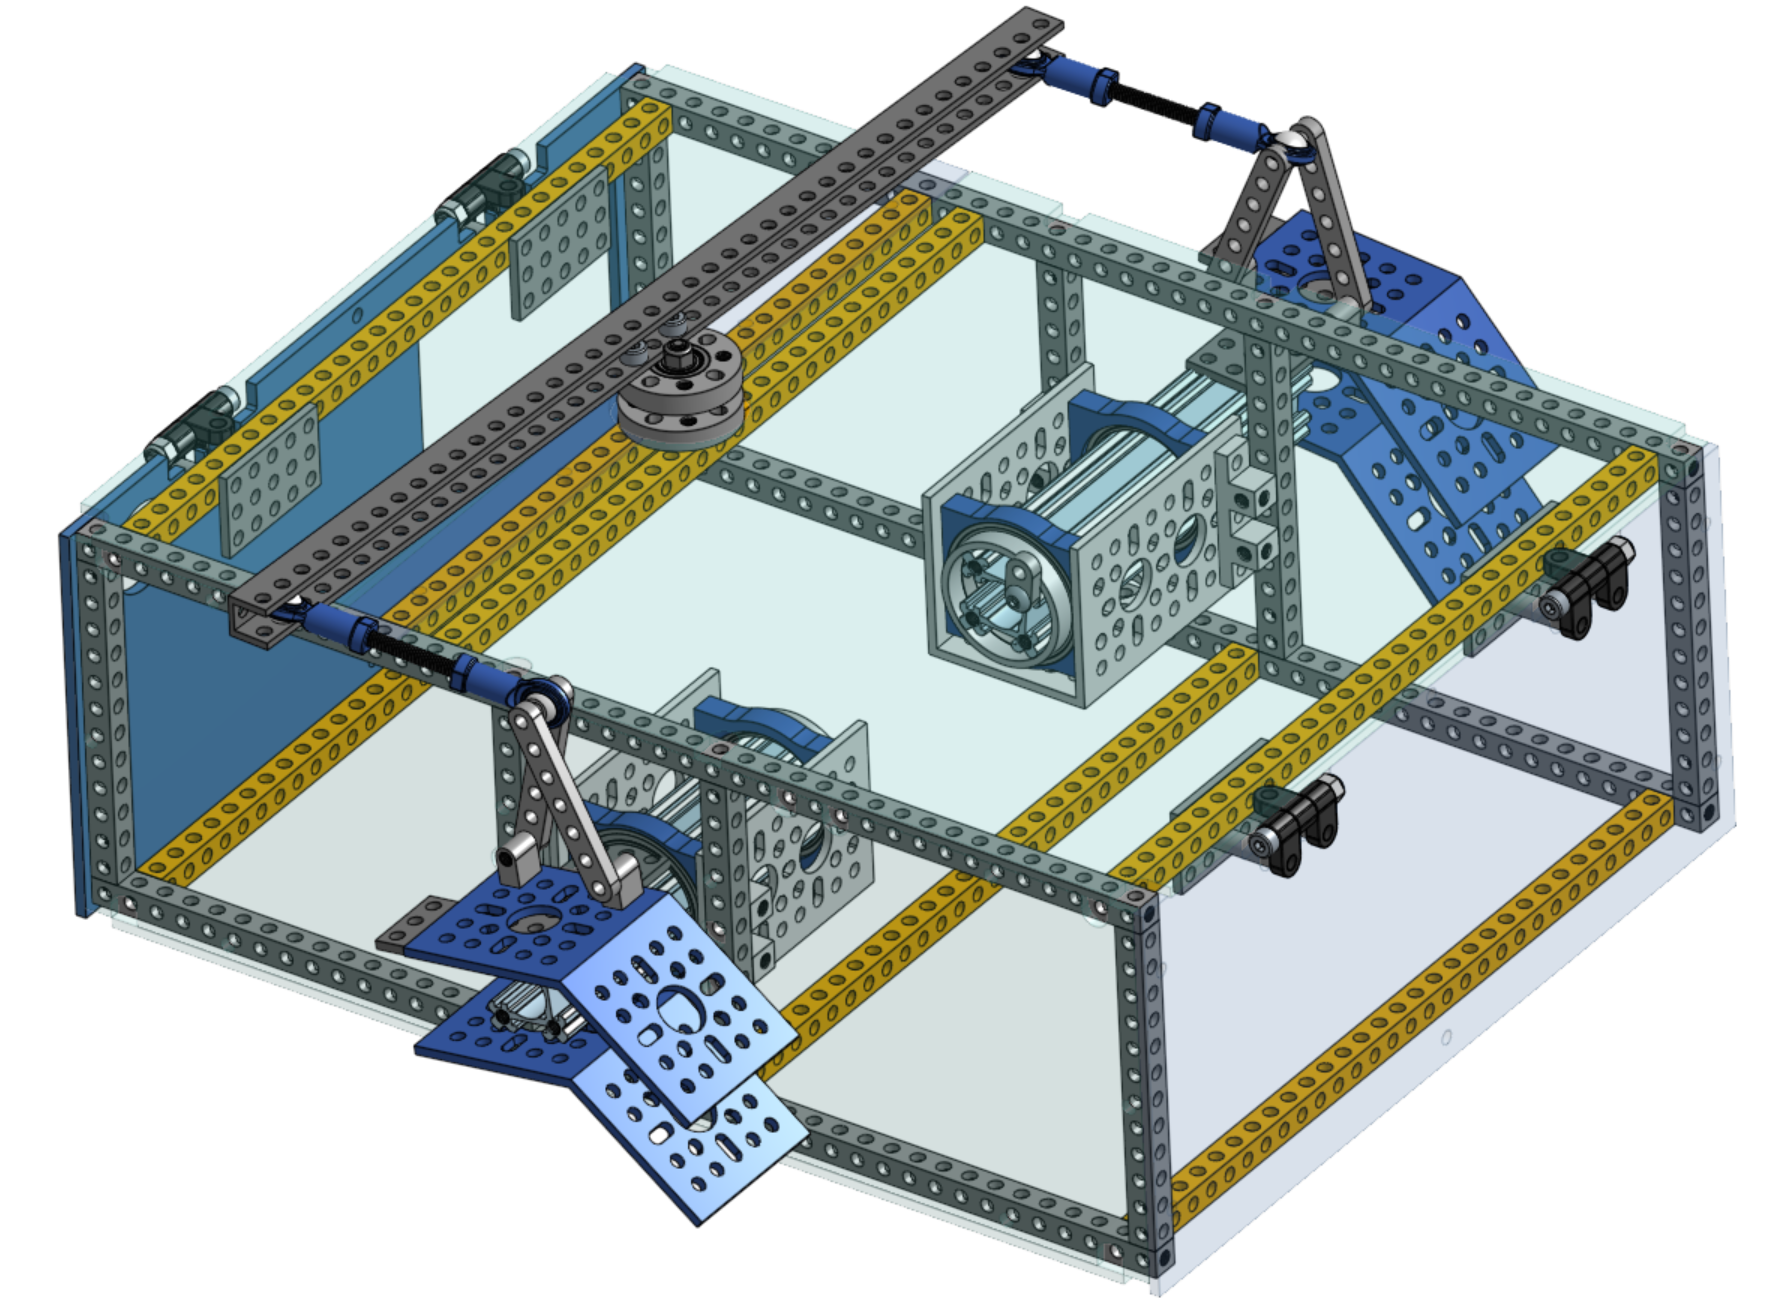
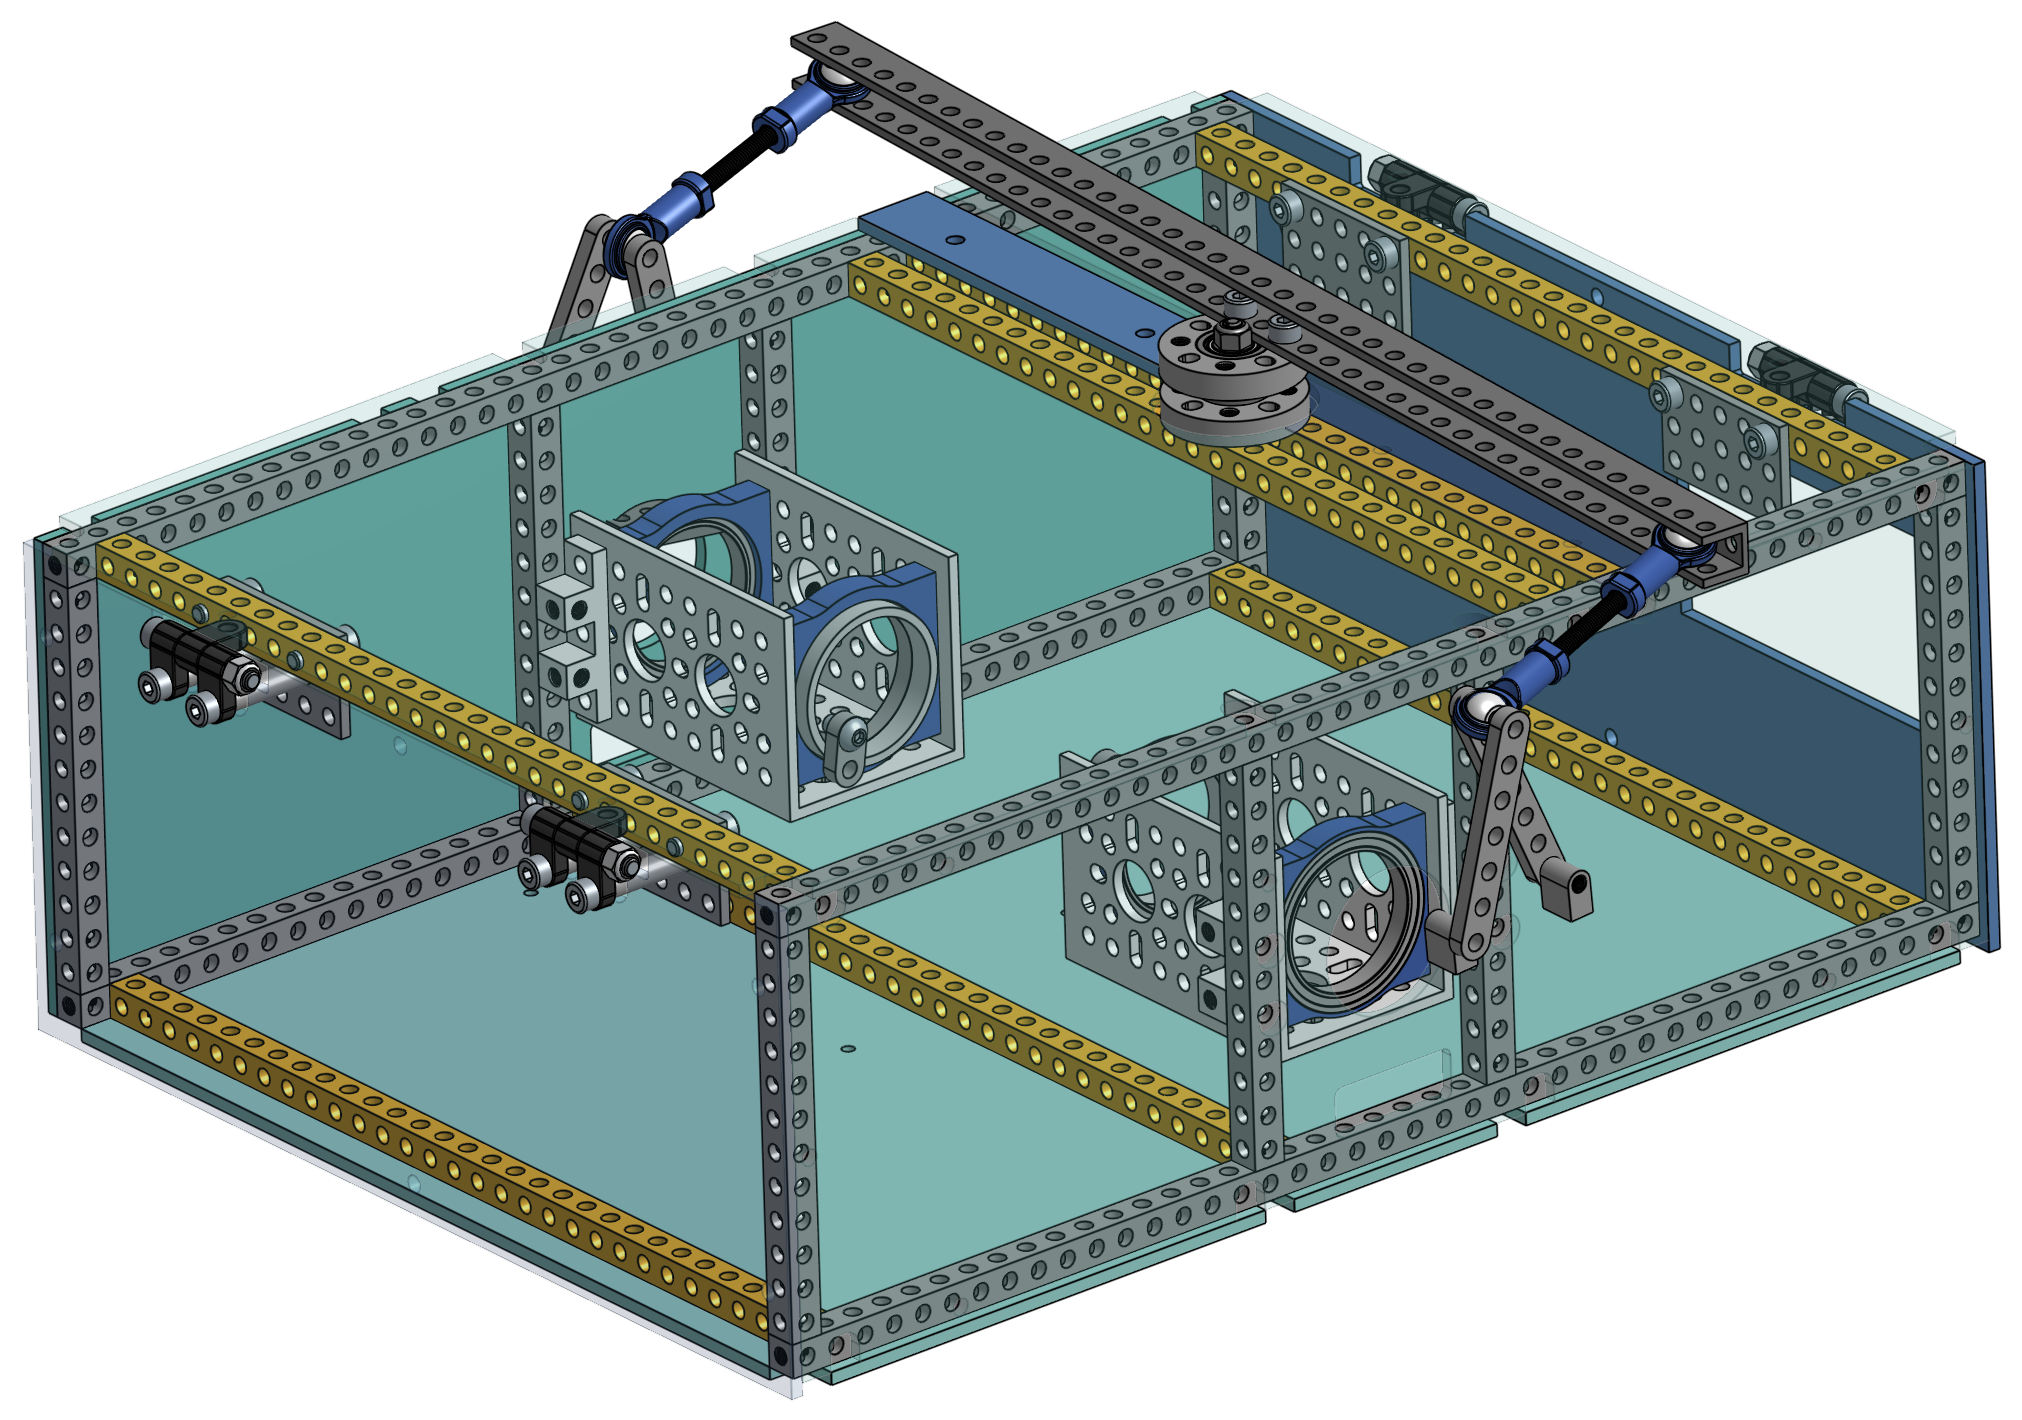
Remove integration folder, docu for mech integration, added images

diff --git a/mechanical/README.md b/mechanical/README.md
@@ -4,7 +4,7 @@ The mechanical subsystem makes up the physical rover without any of its brains o
 
 ![construction](images/rover-construction.png)
 
-The image below shows our suggested progression through the mechanical build process for this project. All individual subassemblies are meant to be completely parallelizable, so each individual subassembly could be built on its own at the same time. Once all the subassemblies are finished, there is one mechanical integration process where each of the subassemblies is integrated together to create the final rover body. Along with the pictures in each folder's README document, open the [OnShape model](https://cad.onshape.com/documents/e4f00b1a3d2edb1a84bbba1c/w/8ab8f394324bcc586236ef5d/e/9191e5ad2a70f387b419bc55?renderMode=0&uiState=645ede92f3a1a9205158b296) so you can see what goes where and spin it around. Note that the OnShape model does not have all screws included to keep the model speedy and light. In general, 
+The image below shows our suggested progression through the mechanical build process for this project. All individual subassemblies are meant to be completely parallelizable, so each individual subassembly could be built on its own at the same time. Once all the subassemblies are finished, there is one mechanical integration process where each of the subassemblies is integrated together to create the final rover body. Along with the pictures in each folder's README document, open the [OnShape model](https://cad.onshape.com/documents/e4f00b1a3d2edb1a84bbba1c/w/8ab8f394324bcc586236ef5d/e/9191e5ad2a70f387b419bc55?renderMode=0&uiState=645ede92f3a1a9205158b296) so you can see what goes where and spin it around. Note that the OnShape model does not have all screws included to keep the model speedy and light.
 
 ## Building the subassemblies
 
@@ -15,6 +15,38 @@ Click on the images to get started on a subassembly!
 
 ## Putting it all together
 
-TODO
+If you haven't already, now is a good time to attach the PCBs to the bottom body plates using the standoffs. The body plates have holes that correspond to where the standoff screws should go.
 
 ![exploded view](images/exploded_mechanical.png)
+Inserting the left rocker-bogie in the body. Note that the 45 angle bracket in blue should already be attached to the rocker-bogie and the wheels should not be attached yet. A 32mm ID round spacer that should be installed below is also not seen on this image.
+
+### Inserting the rocker-bogies in the body
+
+Line up the rocker-bogies with the body such that they can be easily inserted. It helps to put the body on a box such that the holes line up with the rocker-bogie axes. Slide a 32mm internal diameter (ID) spacer around the wires and onto the rocker-bogie axis. Then, carefully insert the wires extending from the rocker-bogie axis through the body plate hole and large diameter bearings and into the body, immediately followed by the axis itself. Repeat for the other side.
+
+![inserting the rocker-bogie axis into the body axis assembly](images/body_axial_clamp.png)
+Inserting the rocker-bogie axis into the body axis clamp. The rocker-bogie is not shown. The cables come out of the axis on the bottom right.
+
+Secure the body axis to the body using another 32mm ID spacer and flat 2-hole bracket + button screw. Repeat for the other side.
+
+### Attaching the differential pivot to the rocker-bogies
+
+Attach the differential legs to the rocker-bogie 45 degree brackets using M4 screws.
+
+> TODO: requires image
+
+### Attaching the middle drive motors
+
+With the help of someone else, carefully flip the rover over so we can attach the motor assemblies.
+
+Connect the two drive motor U-channels to the rocker bogie middle legs using 3 button screws. Then insert the motor into the U-channel and secure the clamp around the motor's gearbox to the U-channel using 4 socket M4 screws. It helps to have another person around here as well to hold the motors so they don't dangle on the cables.
+
+### Attaching the corner assemblies
+
+Using 3 socket M4 screws, attach each corner assembly to the output shaft bracket of the servo. Making sure you connect the right corner assembly to the right side. Flip the rover over again and route the corner cabling through a hole in the bracket holding the servo. The bullet connectors and DuPont connectors from the rocker bogie and corner assemblies should meet here.
+
+> **tip**: Now is a good time to do another connectivity check. Using your multimeter, confirm that each wire connects all the way through.
+
+Finally, insert the PCI-E connectors inside the body and the DuPont connectors for the servo motors into the appropriate receptacles on the PCB. The silk screen lettering on the PCB informs which wire should go where. Once inserted, make sure the rocker-bogies can rotate relatively freely around the body by lifting the wheels up.
+
+If all goes well you're done with the mechanical and electrical stages and you're ready to install the software!

diff --git a/electrical/pcb/README.md b/electrical/pcb/README.md
@@ -8,41 +8,36 @@ This document goes through the process of assembling and testing the custom Prin
 ![brain board top view](images/brain_board_iso.jpg)
 ![brain board bottom view](images/brain_board_bottom.jpg)
 
+TODO: build instructions go here
+
 **work in progress below**
 
-### 6.2 RoboClaw Testing and Verification
+## Testing the PCB and wiring for the drive motos
 
-In this section you will be going one by one and and testing the operation of
-the RoboClaw Motor controllers. You will be doing this by using the GUI provided
-by the manufacturer of the motor controllers. The GUI can be found at
-[this link](https://www.basicmicro.com/downloads), under general downloads, then
-BasicMicro Motion Studio.
+Before we insert the wiring and PCBs into the mechanical assemblies, we'll test and configure the drive motors, wiring, and PCB. This allows us to fix these critical parts if something doesn't look right and allows us to move to running the software as soon as the rover is assembled.
+
+For this you will need:
+
+* wiring you made earlier
+* 6 drive motors
+* completed PCBs
+* a power source: a benchtop power supply or a charged battery
+
+Secure the PCB assembly so it doesn't fall or move while it's on. You can attach it to the bottom body plate already. Avoid contact with any surfaces that can generate high-voltage sparks like carpets as that can destroy the electrical components.
+
+Arrange the drive motors around the PCB and connect them using the wiring. Since we'll be calibrating them, make sure you connect the right motors to the right PCB receptacles. It helps to mark them using a sticky note or marker. The silk screen lettering should help here.
+
+Connect a power source to your board as you did before. Verify that the roboclaws all receive power. A green light should be on on each roboclaw.
+
+### RoboClaw Testing and Verification
+
+In this section you will be going one by one and and testing the operation of the RoboClaw Motor controllers. You will be doing this by using the GUI provided by the manufacturer of the motor controllers. The GUI can be found at [the BasicMicro website](https://www.basicmicro.com/downloads), under general downloads, then BasicMicro Motion Studio.
 
 You'll also need the `USB RoboClaw Windows Driver` from the RoboClaw General
 Downloads section of the page. This should be installed before you run the
 Motion Studio.
 
-To use the GUI, insert a USB to Micro USB cable from your computer to the motor
-controller you are going to be testing.
-
-#### Connect Wires
-
-First, connect the wires in the following manner:
-
-**todo, outdated**
-
-| Signal    | Terminal Block Label | Motor Connector Wire Color |
-| --------- | -------------------- | -------------------------- |
-| Motor (+) | M+                   | Red                        |
-| Motor (-) | M-                   | Black                      |
-| Ground    | GND                  | Green                      |
-| +5V       | +5V                  | Blue                       |
-| Encoder A | ENA                  | Yellow                     |
-| Encoder   | B                    | ENB White                  |
-
-#### Power on
-
-Power on the board. After a minute or so, in the Basic Motion GUI you should see an available device appear. It might require an update to proceed. Install the latest firmware update and then connect to the device.
+To use the GUI, insert a USB to Micro USB cable from your computer to the motor controller you are going to be testing. In the Basic Motion GUI you should see an available device appear. It might require an update to proceed. Install the latest firmware update and then connect to the device.
 
 #### Prepare PWM signal
 
@@ -60,15 +55,6 @@ previous as well. If these are not happening or are backwards, go back and
 check that you are using the correct motor controller, terminal block, etc.
 If all your connections are correct, you may have to test your solder
 contact between the components on the board itself.
-
-#### 6.4.1 Connect wires
-
-Connect the wires to the motor in the following manner
-
-| Signal    | Terminal Block Label | Motor Connector Wire Color |
-| --------- | -------------------- | -------------------------- |
-| Motor (+) | M+                   | Red                        |
-| Motor (-) | M-                   | Black                      |
 
 #### Test PWM signal
 

diff --git a/mechanical/rocker_bogie/README.md b/mechanical/rocker_bogie/README.md
@@ -20,7 +20,7 @@ The Rocker-Bogie is the suspension system that enables the rover to climb aggres
 
 ## Assembly
 
-You will be creating two identical assemblies. Below instructions are for one side. We recommend building one side first rather than trying to build both sides in parallel, that way you'll be able to make the other side faster. Before you start building, familiarize yourself with the details of this assembly, in particular because you'll be building two assemblies that are mirrorred. Specifically, you'll want the open slits on the bogie to be facing the same side:
+You will be creating two almost identical assemblies. Below instructions are for one side. We recommend building one side first rather than trying to build both sides in parallel, that way you'll be able to make the other side faster. Before you start building, familiarize yourself with the details of this assembly, in particular because you'll be building two assemblies that are mirrorred. Specifically, you'll want the open slits on the bogie to be facing the same side:
 
 ![](images/slit_direction_closeup.png)
 
@@ -34,7 +34,7 @@ Assemble the joint following the steps below. Since the clamp in the middle isn'
 
 Wait with the yellow and orange (ball bearing) parts. The bearing should first be inserted into the yellow hub.
 
-TODO: improve images, refer to 3D model. 
+TODO: improve images, refer to 3D model.
 
 ### Attach the joint bearings to the servo arms
 
@@ -46,7 +46,7 @@ Pay attention to direction of the slits for the cabling
 
 ### Attach the front servo
 
-First attach the bracket to the shaft you just attached to the joint using 3 or 4 M4 screws. Then assemble the servo block to the servo. Insert the set screw that came with the servo inside the hollow shaft that fits onto the spline profile on the servo output. This prevents the corner assembly from falling off the rocker-bogie later.
+First attach the bracket to the shaft you just attached to the joint using 3 or 4 M4 screws. Then assemble the servo block to the servo. Insert the set screw that came with the servo inside the hollow shaft that fits onto the spline profile on the servo output, but don't tighten it yet as we'll have to readjust later when calibrating the corner motors. This screw prevents the corner assembly from falling off the rocker-bogie while driving.
 
 Route the wiring from the servo motor through the hole and into the extruded shaft, then attach the servo motor and block to the front rocker-bogie bracket.
 
@@ -68,4 +68,8 @@ Use 4 hurricane nuts and the 45 degree bracket to connect the back and the front
 
 ![bottom view](images/connect45bracket.png)
 
-Repeat these steps for the other rocker-bogie, making sure the slit in the extruded channel and the part of the 45 degree bracket sticking out face the opposite way. Once you're done, you're ready with these very important subassemblies!
+Flip the assembly over and attach the two brackets like in the picture below, using 4 more hurricane nuts and socket screws to secure the pieces to the rocker bogie aluminum extrusions. Then route all wires through the aluminum channel that will eventually slide into the rover body. The slit in the channel should orient in the direction where most of the cables enter it (flipped compared to the image below) but either direction works. Secure the channel to the rocker-bogie using 5 hurricane nuts (2 at the bottom) and socket screws, making sure the channel end sits flush to the other channels and the wiring isn't squeezed inbetween.
+
+![top view](images/connect45topbracket.png)
+
+Repeat these steps for the other rocker-bogie, making sure it mirrors the first assembly. Once you're done, you're ready with these very important subassemblies!

diff --git a/README.md b/README.md
@@ -116,19 +116,17 @@ In our experience, this project takes no less than 100 person-hours to build, an
 
 **TODO**: add build map overview
 
-Above is an example roadmap of how you can build the rover and which parts of the build are dependent on the other sections. It is broken down into several stages. If you're working on the OSR in team, many steps can be done in parallel. For example, soldering the PCB can be done at the same time as the mechanical assembly.
+Above is an example roadmap of how you can build the rover and which parts of the build are dependent on the other sections. It is broken down into several stages.
 
 * **Stage 1:** [Order parts](#ordering-parts). You'll want to get started on this ASAP!
 
 * **Stage 2:** [Create the wiring](electrical/wiring/README.md). The cables connect the Printed Circuit Board (PCB) in the body to each motor and integrate into the rocker-bogie and corner assemblies so they need to be built first.
 
-* **Stage 3:** [Make the mechanical subassemblies](mechanical/README.md): the body, the two rocker-bogies, the drive and corner motor assemblies. The instructions will guide you through how to do these step by step while integrating the cabling from Stage 2. You'll then attach them into something that will start to look like a rover!
+* **Stage 3:** [Make the electronics](electrical/pcb/README.md): Soldering the PCB and installing into the rover along with peripheral connections. We'll also use the wiring to test your PCBs.
 
-* **Stage 4:** [Make the electronics](electrical/pcb/README.md): Soldering the PCB and installing into the rover along with peripheral connections. You can do this step at any point.
+* **Stage 4:** [Make the mechanical assemblies](mechanical/README.md): the body, the two rocker-bogies, the drive and corner motor assemblies. The instructions will guide you through how to do these step by step while integrating the cabling from Stage 2. You'll then attach them into something that will start to look like a rover!
 
-* **Stage 5:** [Integration, calibration, and testing](integration/README.md). You will have to have completed Stage 3 and 4 for this.
-
-* **Stage 6:** Setting up and configuring the operating system rover code. The [Rover Code repo](https://github.com/nasa-jpl/osr-rover-code)'s README files will walk you through all necessary steps for getting the rover software up and running on the Raspberry Pi. These steps can be completed at any point during the project, all the way up to when all the electronics and mechanical parts are completed and you are ready to start driving and controlling the robot.
+* **Stage 5:** Setting up and configuring the operating system rover code. The [Rover Code repo](https://github.com/nasa-jpl/osr-rover-code)'s README files will walk you through all necessary steps for getting the rover software up and running on the Raspberry Pi. These steps can be completed at any point during the project, all the way up to when all the electronics and mechanical parts are completed and you are ready to start driving and controlling the robot.
 
 * **What's next?** Add your own upgrades! We chose Raspberry Pi as the brain of the project so that it should be easy to add, change, and upgrade to build exciting things on top of this already cool robot.  Some upgrade ideas to get you brainstorming: sonar for collision detection, IMU for orientation / closed-loop driving / obstacle mapping, camera for object identification and tracking, sensor packages (temperature, pressure, humidity), solar panels, or even a robotic arm!
 

diff --git a/mechanical/body/README.md b/mechanical/body/README.md
@@ -1,10 +1,9 @@
 # Main Body Assembly
 
-**Note**: documentation is a work in progress.
-
 The body is the housing of all the electronics for the rover and acts as the attachment point for the differential pivot and the body axis that the rocker-bogies on either side connect to.
 
-![](images/body.png)
+![finished body](images/body.png)
+View of the body without PCB and with some of the body plates made transparent.
 
 ## Assemble the body frame
 
@@ -12,10 +11,11 @@ Gather the pieces from the [parts list for the body](../../parts_list/README.md/
 
 Use socket M4 screws of 16mm length and pay close attention to the placement of the beams using the image below and the online OnShape model.
 
+![body frame](images/body_frame.png)
+
 ## Assemble the axes that connect to the rocker-bogie
 
-| ![](images/body_axial_clamp.png) | ![](images/body_axial_clamp_exploded.png) |
-| -------------------------------- | ----------------------------------------- |
+
 
 Make two of these and connect them to the sides of the body. They should be installed exactly in the middle, which means that you're going to connect each side to the 17th hole on the long 41-hole beams on the top and bottom of the body frame. Use the M4 16mm socket screws.
 
